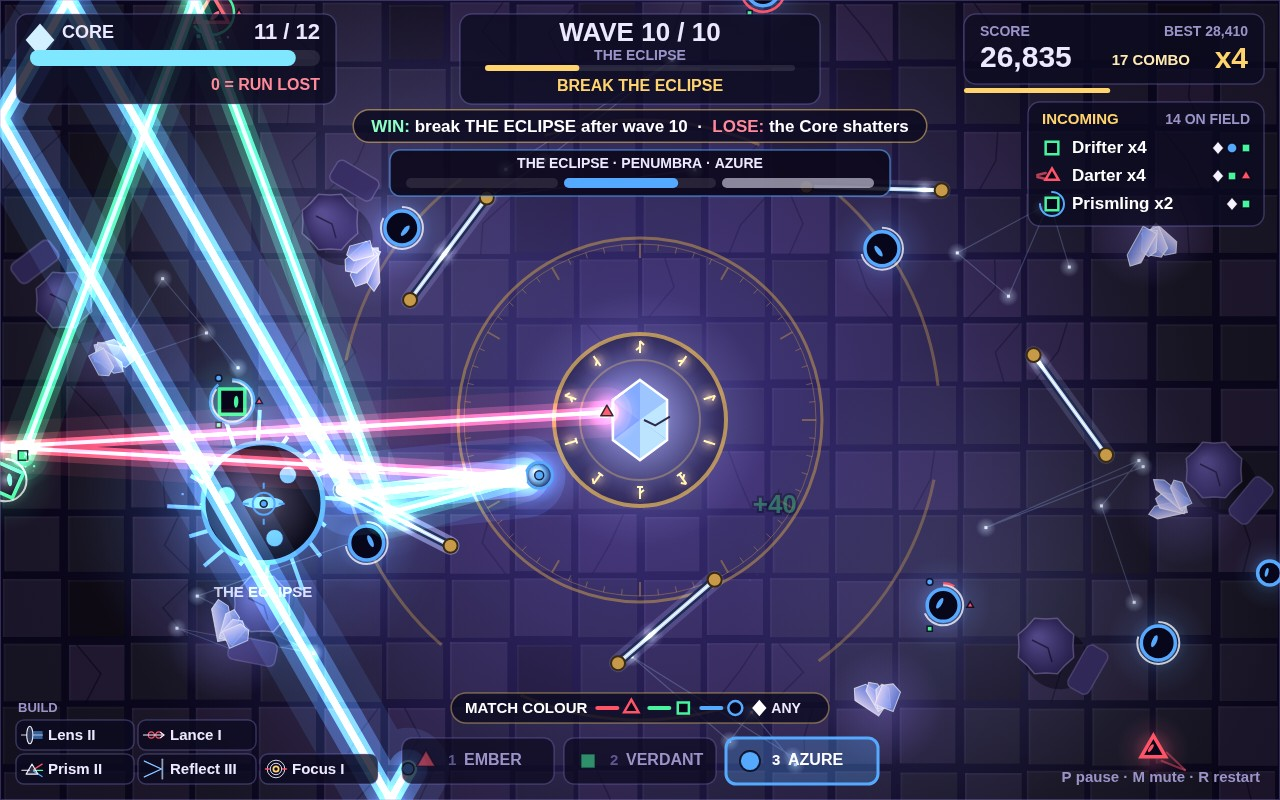
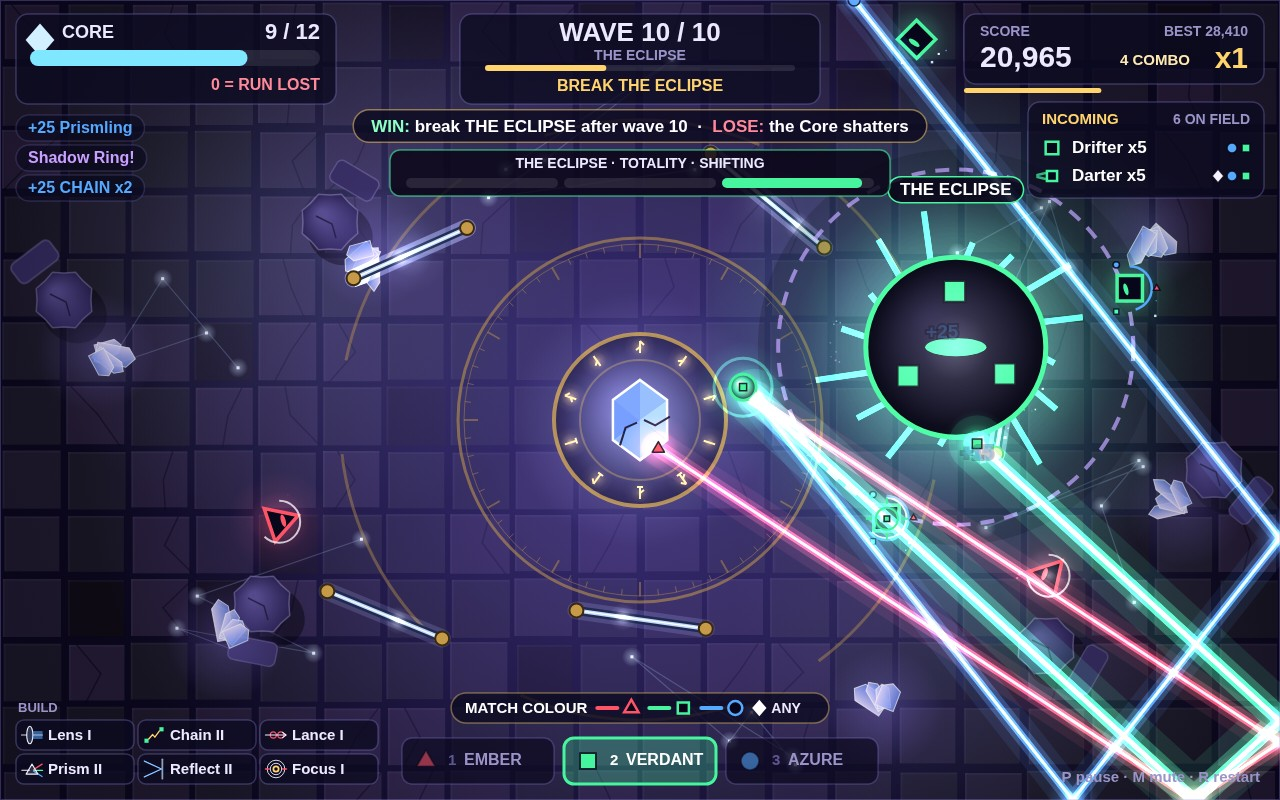
THE ECLIPSE reads as the boss: 1.5x larger, brighter corona, name on its own plate; triangle-framed boss cover
- Boss radius 60 -> 90 (hitbox matches); stronger corona glow, white inner glow and thicker rays; glyphs scale with size
- Name label drawn above the corona on a dark plate after the beams, so nothing crosses it; preview and victory renders rescaled
- find-cover.mjs: boss centre in the middle 60% of the arena with >= 140 px of floor to the Core, a Shadow Ring in flight or tightening,
  the beam in the boss's colour striking it, Prism branches with >= 2 bounces hitting minions of other colours, and a boss/Warden/Core
  triangle with open floor (best of 1,200 runs)

diff --git a/game/js/render.js b/game/js/render.js
@@ -54,6 +54,7 @@ export function drawWorld(ctx, world, time, showReticle = true) {
   drawBeams(ctx, world.beams, time);
   if (world.state !== 'lost') drawWarden(ctx, world.warden, time);
   drawParticles(ctx);
+  if (world.boss && !world.boss.dead && world.boss.entering <= 0) drawEclipseLabel(ctx, world.boss);
   drawFloaters(ctx, FONT);
   ctx.restore();
   if (showReticle && (world.state === 'fight' || world.state === 'cleared')) drawReticle(ctx, world.warden, time);
@@ -365,14 +366,15 @@ function drawBulwark(ctx, shade, time) {
 }
 
 /** THE ECLIPSE: a black sun with a corona in its phase colour; `fallen` draws it dimmed and cracked for the victory screen. */
-export function drawEclipse(ctx, boss, time, { label = true, fallen = false } = {}) {
+export function drawEclipse(ctx, boss, time, { fallen = false } = {}) {
   const light = LIGHTS[boss.colour];
   const { x, y, r } = boss;
   const power = fallen ? 0.3 : 1;
   if (boss.charging > 0) drawShadowCharge(ctx, boss, time);
   ctx.save();
   ctx.globalCompositeOperation = 'lighter';
-  drawGlow(ctx, x, y, r * 3.2, light.rgb, 0.75 * power);
+  drawGlow(ctx, x, y, r * 3, light.rgb, power);
+  drawGlow(ctx, x, y, r * 1.6, '255,255,255', 0.35 * power);
   ctx.beginPath();
   for (let i = 0; i < 16; i += 1) {
     const angle = boss.rot + (i / 16) * TAU;
@@ -380,8 +382,8 @@ export function drawEclipse(ctx, boss, time, { label = true, fallen = false } = 
     ctx.moveTo(x + Math.cos(angle) * r * 0.95, y + Math.sin(angle) * r * 0.95);
     ctx.lineTo(x + Math.cos(angle + 0.06) * length, y + Math.sin(angle + 0.06) * length);
   }
-  ctx.strokeStyle = `rgba(${light.rgb},${0.8 * power})`;
-  ctx.lineWidth = 4;
+  ctx.strokeStyle = `rgba(${light.rgb},${power})`;
+  ctx.lineWidth = 6;
   ctx.stroke();
   if (boss.broken > 0) {
     ctx.beginPath();
@@ -404,7 +406,7 @@ export function drawEclipse(ctx, boss, time, { label = true, fallen = false } = 
   ctx.stroke();
   for (let i = 0; i < 3; i += 1) {
     const angle = -boss.rot * 1.5 + (i / 3) * TAU;
-    drawLightGlyph(ctx, boss.colour, x + Math.cos(angle) * r * 0.62, y + Math.sin(angle) * r * 0.62, 9);
+    drawLightGlyph(ctx, boss.colour, x + Math.cos(angle) * r * 0.62, y + Math.sin(angle) * r * 0.62, r * 0.15);
   }
   ctx.beginPath();
   ctx.ellipse(x, y, r * 0.34, fallen ? r * 0.025 : r * 0.1, 0, 0, TAU);
@@ -417,11 +419,24 @@ export function drawEclipse(ctx, boss, time, { label = true, fallen = false } = 
     drawGlow(ctx, x, y, r * 1.5, '255,255,255', boss.flash * 5);
     ctx.restore();
   }
-  if (!label) return;
-  ctx.font = `800 15px ${FONT}`;
+}
+
+/** THE ECLIPSE's name on its own dark plate above the corona, drawn after the beams so nothing crosses it. */
+function drawEclipseLabel(ctx, boss) {
+  const y = boss.y - boss.r * 1.75;
+  ctx.font = `900 17px ${FONT}`;
+  const width = ctx.measureText('THE ECLIPSE').width + 24;
+  ctx.beginPath();
+  ctx.roundRect(boss.x - width / 2, y - 13, width, 26, 13);
+  ctx.fillStyle = 'rgba(8,5,22,0.85)';
+  ctx.fill();
+  ctx.strokeStyle = LIGHTS[boss.colour].hex;
+  ctx.lineWidth = 1.5;
+  ctx.stroke();
   ctx.textAlign = 'center';
-  ctx.fillStyle = 'rgba(236,233,255,0.85)';
-  ctx.fillText('THE ECLIPSE', x, y + r + 34);
+  ctx.textBaseline = 'middle';
+  ctx.fillStyle = '#ffffff';
+  ctx.fillText('THE ECLIPSE', boss.x, y + 1);
 }
 
 /** Broken THE ECLIPSE: a dark veil over the body and jagged cracks with light leaking through them. */

diff --git a/game/js/screens.js b/game/js/screens.js
@@ -265,8 +265,8 @@ function drawEclipsePreview(ctx, time) {
   boss.colour = Math.floor(time / 2.6) % 3;
   ctx.save();
   ctx.translate(cx - 290, 192);
-  ctx.scale(0.82, 0.82);
-  drawEclipse(ctx, boss, time, { label: false });
+  ctx.scale(0.55, 0.55);
+  drawEclipse(ctx, boss, time);
   ctx.restore();
   const left = cx - 160;
   text(ctx, 'NEXT: THE ECLIPSE', left, 136, 34, PALETTE.gold, 'left', 900);
@@ -368,8 +368,8 @@ function drawFallenEclipse(ctx, x, y, time) {
   boss.colour = 0;
   ctx.save();
   ctx.translate(x, y);
-  ctx.scale(0.62, 0.62);
-  drawEclipse(ctx, boss, time, { label: false, fallen: true });
+  ctx.scale(0.42, 0.42);
+  drawEclipse(ctx, boss, time, { fallen: true });
   ctx.restore();
 }
 

diff --git a/game/js/shades.js b/game/js/shades.js
@@ -10,7 +10,7 @@ export const SHADE_KINDS = {
   prismling: { label: 'Prismling', radius: 16, hp: 2.4, speed: 50, value: 25, coreDamage: 1 },
   bulwark: { label: 'Bulwark', radius: 29, hp: 2.6, speed: 25, value: 60, coreDamage: 3, shellHp: 2.2 },
   umbra: { label: 'Umbra', radius: 11, hp: 0.5, speed: 85, value: 5, coreDamage: 1 },
-  eclipse: { label: 'The Eclipse', radius: 60, hp: 1, speed: 0, value: 0, coreDamage: 0 },
+  eclipse: { label: 'The Eclipse', radius: 90, hp: 1, speed: 0, value: 0, coreDamage: 0 },
 };
 
 /** Which part of a Shade a beam touching (hx, hy) strikes: a Bulwark shell segment index, or -1 for the body or heart. */
